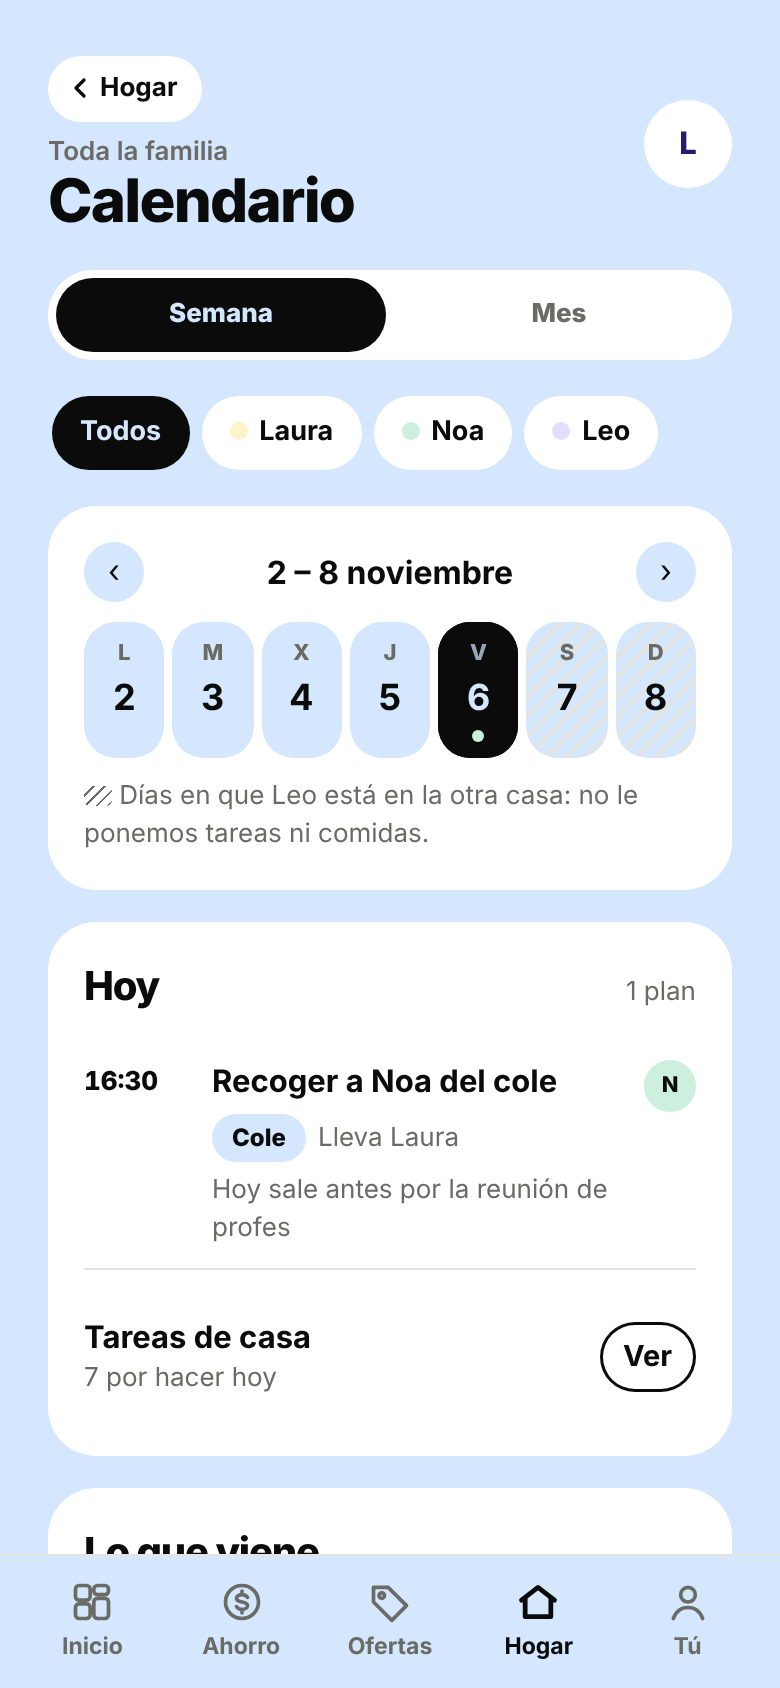
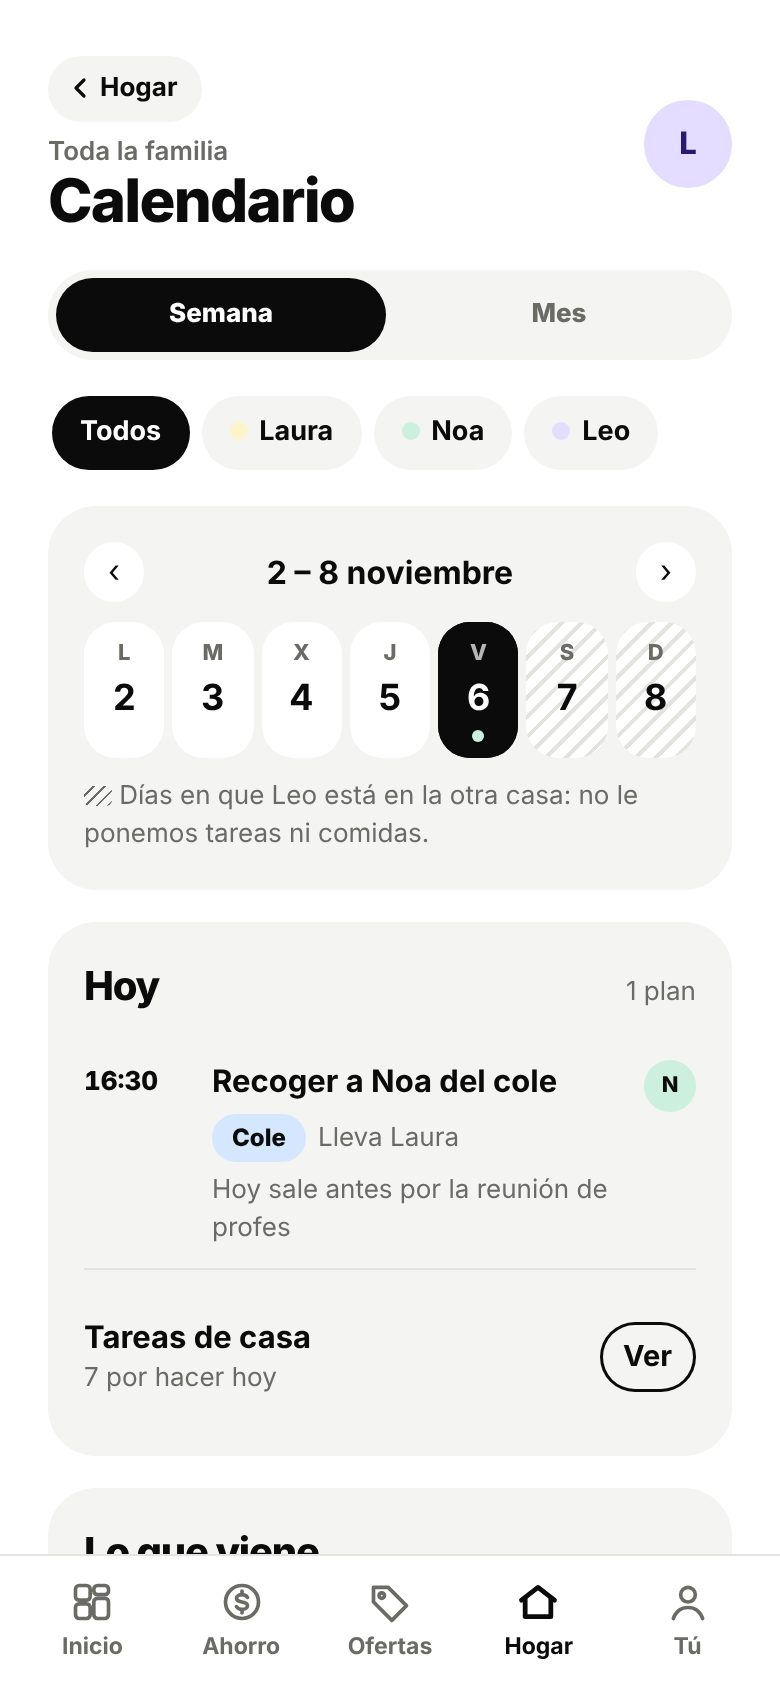
App: colores por apartado también en modo oscuro e inicio en lila; web vuelve a las capturas anteriores
Claude-Session: https://claude.ai/code/session_01F6sCRFry7y6VH7Km1yR5w5

diff --git a/app/index.html b/app/index.html
@@ -7,19 +7,27 @@
 <link rel="manifest" href="manifest.webmanifest">
 <link rel="icon" href="icons/icono.svg" type="image/svg+xml">
 <link rel="apple-touch-icon" href="icons/icono.svg">
+<meta charset="utf-8">
 <title>Viwai</title>
 
 <link rel="stylesheet" href="https://fonts.googleapis.com/css2?family=Plus+Jakarta+Sans:wght@400;500;600;700;800&display=swap">
 <style>
 [hidden]{display:none!important}
 /* Escenas de color como en la web y los anuncios: cada apartado tiene su fondo pastel y las tarjetas van en blanco */
-@media (prefers-color-scheme: light){
 body[data-sec]{--bg:var(--secbg);--surface:#FFFFFF;--sunk:#F4F2EE;transition:background .25s}
 body[data-sec="peach"]{--secbg:#FFD9C7}body[data-sec="butter"]{--secbg:#FFEFB5}body[data-sec="lav"]{--secbg:#E4DDFF}
 body[data-sec="mint"]{--secbg:#CDEFDD}body[data-sec="sky"]{--secbg:#D5E7FF}body[data-sec="cream"]{--secbg:#FFF4C9}
-body[data-sec="lav"] .tile.wide,body[data-sec="lav"] .hero{background:#FFFFFF!important}
+body[data-sec="lav"] .tile.wide:not(.dark),body[data-sec="lav"] .hero{background:#FFFFFF!important}
 body[data-sec] .type{background:#F7F5F1}body[data-sec] .avatar{background:#FFFFFF}body[data-sec] .demo{background:rgba(255,255,255,.7)}
-}
+
+@media (prefers-color-scheme: dark){:root:not([data-theme="light"]) body[data-sec]{--surface:#1B1B19;--sunk:#232321}
+:root:not([data-theme="light"]) body[data-sec="peach"]{--secbg:#3A2219}:root:not([data-theme="light"]) body[data-sec="butter"]{--secbg:#332B0E}:root:not([data-theme="light"]) body[data-sec="lav"]{--secbg:#241E3D}
+:root:not([data-theme="light"]) body[data-sec="mint"]{--secbg:#132E22}:root:not([data-theme="light"]) body[data-sec="sky"]{--secbg:#15243A}:root:not([data-theme="light"]) body[data-sec="cream"]{--secbg:#2E2810}
+:root:not([data-theme="light"]) body[data-sec] .demo,:root:not([data-theme="light"]) body[data-sec] .type,:root:not([data-theme="light"]) body[data-sec] .avatar,:root:not([data-theme="light"]) body[data-sec="lav"] .tile.wide:not(.dark),:root:not([data-theme="light"]) body[data-sec="lav"] .hero{background:#232321!important}}
+:root[data-theme="dark"] body[data-sec]{--surface:#1B1B19;--sunk:#232321}
+:root[data-theme="dark"] body[data-sec="peach"]{--secbg:#3A2219}:root[data-theme="dark"] body[data-sec="butter"]{--secbg:#332B0E}:root[data-theme="dark"] body[data-sec="lav"]{--secbg:#241E3D}
+:root[data-theme="dark"] body[data-sec="mint"]{--secbg:#132E22}:root[data-theme="dark"] body[data-sec="sky"]{--secbg:#15243A}:root[data-theme="dark"] body[data-sec="cream"]{--secbg:#2E2810}
+:root[data-theme="dark"] body[data-sec] .demo,:root[data-theme="dark"] body[data-sec] .type,:root[data-theme="dark"] body[data-sec] .avatar,:root[data-theme="dark"] body[data-sec="lav"] .tile.wide:not(.dark),:root[data-theme="dark"] body[data-sec="lav"] .hero{background:#232321!important}
 
 .fi{position:absolute;inset:0;width:100%;height:100%;object-fit:cover;border-radius:inherit;z-index:0}
 .tav,.avatar,.th,.ph,.of .img,.wt{position:relative;overflow:hidden}
@@ -427,7 +435,7 @@ nav.tabs button[aria-current="page"] svg{stroke-width:2.6}
       <button class="tile t-mint" data-v="facturas"><span class="tic"><svg viewBox="0 0 24 24" fill="none" stroke="currentColor" stroke-width="2" stroke-linecap="round" stroke-linejoin="round"><path d="M6 3h9l4 4v14H6z"/><path d="M14 3v5h5"/></svg></span><span class="big" id="b-bills">0/0</span><span>facturas revisadas</span></button>
       <button class="tile t-butter2" data-v="ofertas"><span class="tic"><svg viewBox="0 0 24 24" fill="none" stroke="currentColor" stroke-width="2" stroke-linecap="round" stroke-linejoin="round"><path d="M3 12V4h8l10 10-8 8z"/><circle cx="7.5" cy="8.5" r="1.5"/></svg></span><span class="big" id="b-offers">0</span><span>ofertas para tu perfil</span></button>
       <button class="tile t-sky2" data-v="docs"><span class="tic"><svg viewBox="0 0 24 24" fill="none" stroke="currentColor" stroke-width="2" stroke-linecap="round" stroke-linejoin="round"><path d="M12 3l8 3v6c0 5-3.5 8-8 9-4.5-1-8-4-8-9V6z"/></svg></span><span class="big" id="b-docd">28 d</span><span id="b-docn">para que venza tu seguro</span></button>
-      <button class="tile wide dark" style="background:var(--ink);color:var(--bg)" data-v="perfil"><span class="tic"><svg viewBox="0 0 24 24" fill="none" stroke="currentColor" stroke-width="2" stroke-linecap="round" stroke-linejoin="round"><path d="M12 3l2.7 5.6 6.1.9-4.4 4.3 1 6.1L12 17l-5.4 2.9 1-6.1L3.2 9.5l6.1-.9z"/></svg></span><span id="b-lv-t">Nivel 1</span><span class="big" style="font-size:24px;color:var(--bg)" id="b-lv">Invita a 1 amiga</span><span id="b-lv-s"></span></button>
+      <button class="tile wide dark" style="background:var(--ink);color:#FAFAF8" data-v="perfil"><span class="tic"><svg viewBox="0 0 24 24" fill="none" stroke="currentColor" stroke-width="2" stroke-linecap="round" stroke-linejoin="round"><path d="M12 3l2.7 5.6 6.1.9-4.4 4.3 1 6.1L12 17l-5.4 2.9 1-6.1L3.2 9.5l6.1-.9z"/></svg></span><span id="b-lv-t">Nivel 1</span><span class="big" style="font-size:24px;color:#FAFAF8" id="b-lv">Invita a 1 amiga</span><span id="b-lv-s"></span></button>
     </div>
     <div class="wx"><div><span class="small muted">Hoy</span><b>14° · lluvia a las 18 h</b><span class="small muted">Datos de AEMET</span></div><div><span class="small muted">Farmacia de guardia</span><b>A 600 m</b><span class="small muted">Abierta hasta las 22 h</span></div></div>
     <div id="home-dash" class="view"></div>
@@ -933,7 +941,7 @@ const TT={inicio:["Viwai · ahorro sin esfuerzo","Lo que ahorras, lo vives"],aho
  hogar:["Tu casa, sin olvidos","Hogar"],docs:["Te avisamos antes","Documentos y fechas"],pedidos:["En camino","Pedidos"],wallet:["Siempre a mano","Wallet"],mant:["Que no se te pase","Mantenimiento"],cal:["Toda la familia","Calendario"],menu:["Esta semana","Menú y compra"],tareas:["Entre todos","Tareas de casa"],armario:["Uno por persona","Armario"],talla:["Ofertas en su talla","Lo que le falta"],vender:["Segunda vida","Vender o pasar"],familia:["Casa compartida","Tu familia"],eventos:["Organízalo entre todos","Eventos"],dinero:["Módulo de pago","Mi dinero"],perfil:["Tu nivel y tu perfil","Tú"]};
 const PARENT={facturas:"ahorro",luz:"ahorro",gasolina:"ahorro",ayudas:"ahorro",reembolso:"ahorro",docs:"hogar",pedidos:"hogar",wallet:"hogar",mant:"hogar",cal:"hogar",menu:"hogar",tareas:"hogar",armario:"hogar",talla:"armario",vender:"talla",familia:"perfil",eventos:"hogar",dinero:"perfil"};
 const LBL={ahorro:"Ahorro",hogar:"Hogar",perfil:"Tú",armario:"Armario",talla:"Lo que le falta"};
-const SEC={facturas:"peach",luz:"peach",ayudas:"butter",gasolina:"sky",reembolso:"lav",ahorro:"lav",dinero:"lav",ofertas:"cream",perfil:"lav",armario:"mint",talla:"mint",vender:"mint",familia:"mint",cal:"sky",tareas:"sky",eventos:"sky",hogar:"sky",menu:"cream",docs:"butter",pedidos:"butter",wallet:"butter",mant:"butter"};
+const SEC={inicio:"lav",facturas:"peach",luz:"peach",ayudas:"butter",gasolina:"sky",reembolso:"lav",ahorro:"lav",dinero:"lav",ofertas:"cream",perfil:"lav",armario:"mint",talla:"mint",vender:"mint",familia:"mint",cal:"sky",tareas:"sky",eventos:"sky",hogar:"sky",menu:"cream",docs:"butter",pedidos:"butter",wallet:"butter",mant:"butter"};
 function go(v){const top=PARENT[v]||v;if(SEC[v])document.body.dataset.sec=SEC[v];else delete document.body.dataset.sec;document.querySelectorAll("section.view").forEach(s=>s.hidden=s.id!=="v-"+v);document.querySelectorAll("#tabs button").forEach(b=>b.dataset.v===top?b.setAttribute("aria-current","page"):b.removeAttribute("aria-current"));
  $("#back").hidden=!PARENT[v];if(PARENT[v]){$("#back").dataset.v=PARENT[v];$("#back-l").textContent=LBL[PARENT[v]]}
  $("#eyebrow").textContent=TT[v][0];$("#title").textContent=TT[v][1];window.scrollTo(0,0)}
@@ -1558,6 +1566,7 @@ document.addEventListener("click",e=>{const b=e.target.closest("button");if(!b||
   if(d.vecopy){const t=$("#vender-box .ad").innerText;(navigator.clipboard?navigator.clipboard.writeText(t):Promise.reject()).then(()=>toast("Texto copiado")).catch(()=>toast("Selecciona el texto del anuncio para copiarlo"));return}
 });
 
+if(!document.body.dataset.sec)document.body.dataset.sec="lav";
 renderAll();
 </script>
 <script>if ("serviceWorker" in navigator) navigator.serviceWorker.register("sw.js").catch(() => {});</script>

diff --git a/app/sw.js b/app/sw.js
@@ -1,5 +1,5 @@
 // Service worker mínimo: guarda la app para abrirla sin conexión. Los datos siempre se piden a la red.
-const CACHE = "viwai-v13";
+const CACHE = "viwai-v14";
 const ARCHIVOS = ["./", "index.html", "manifest.webmanifest", "icons/icono.svg"];
 self.addEventListener("install", (e) => e.waitUntil(caches.open(CACHE).then((c) => c.addAll(ARCHIVOS))));
 self.addEventListener("activate", (e) => e.waitUntil(caches.keys().then((ks) => Promise.all(ks.filter((k) => k !== CACHE).map((k) => caches.delete(k))))));
